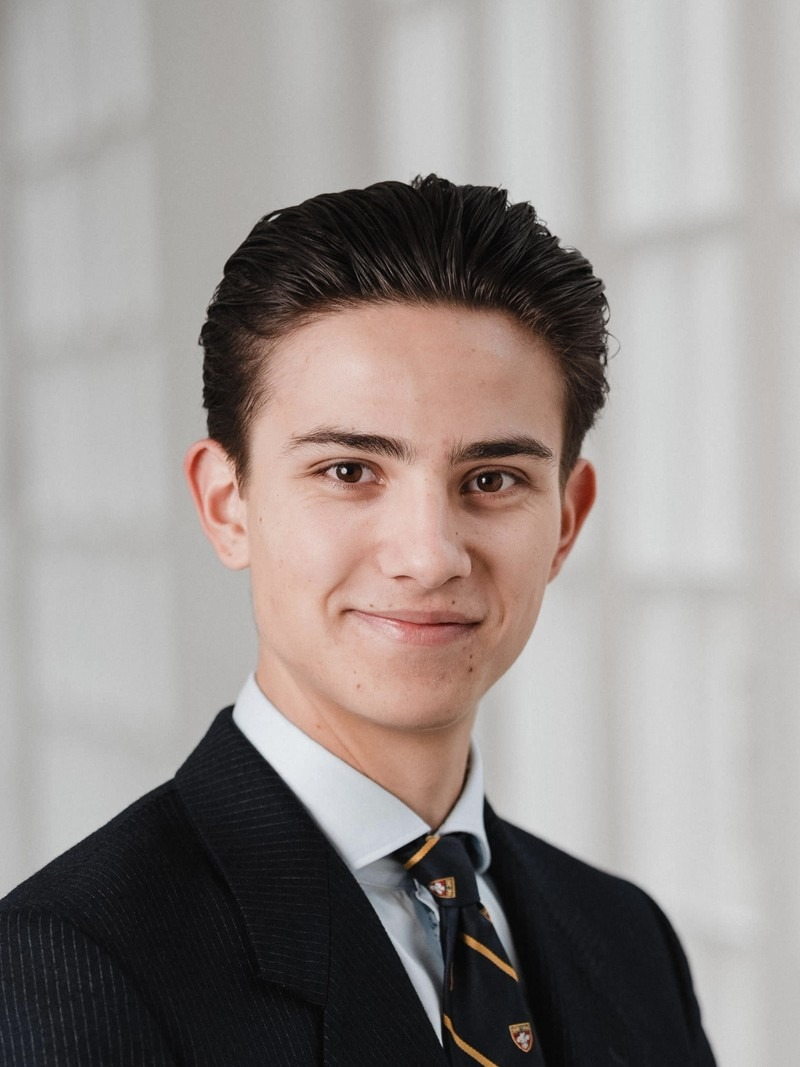
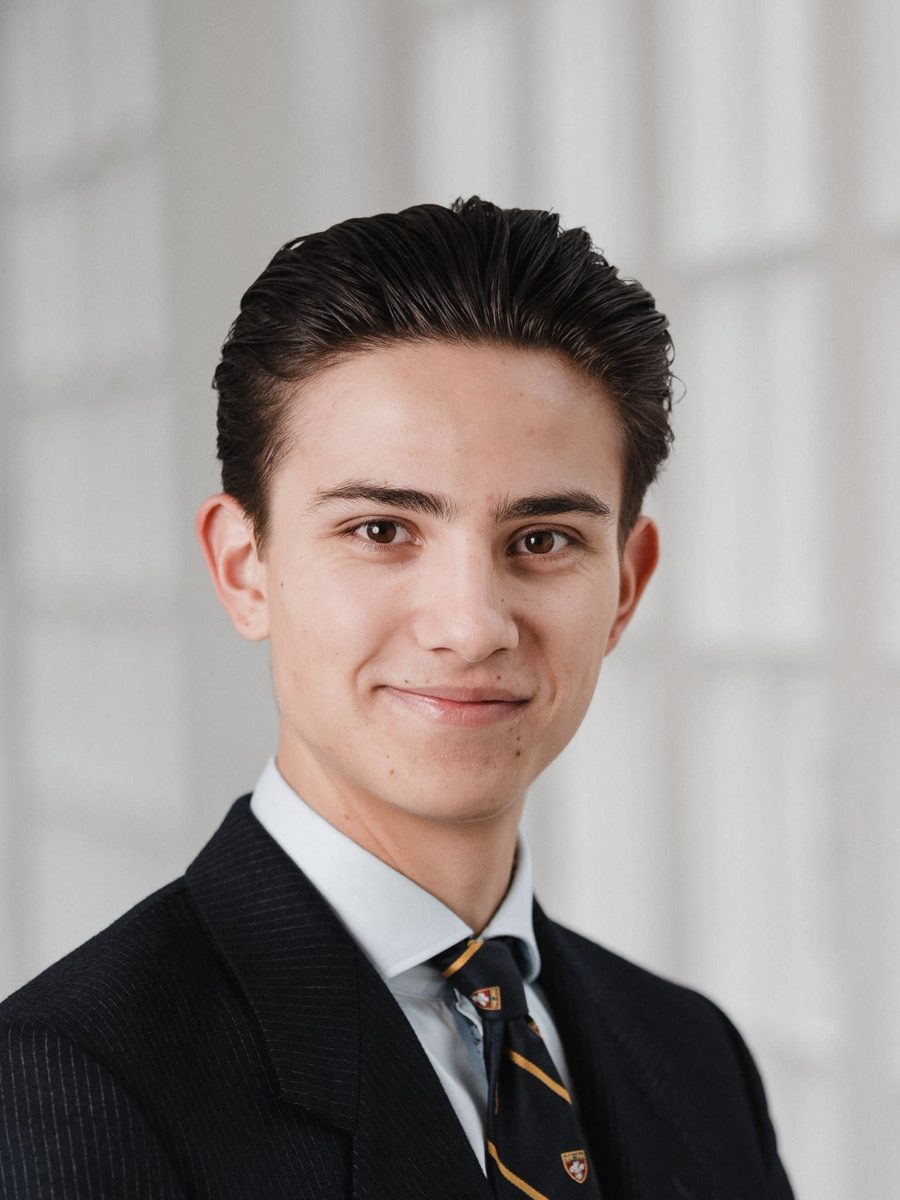
Add 2026-27 headshots and remove photos of former members
29 member uploads from the profile form, cropped to the 3:4 card format around
the detected face (900x1200 JPEG). process-headshots.py gains an optional face
share column for tighter crops and documents that face detection needs
opencv-python 4.x.

Claude-Session: https://claude.ai/code/session_016rtwW6F4ZxnBTU6Y9U1igo

diff --git a/scripts/process-headshots.py b/scripts/process-headshots.py
@@ -8,8 +8,9 @@ and saved as a progressive JPEG in public/team/<slug>.jpg.
 Usage:
   python3 scripts/process-headshots.py <mapping.csv>
 
-mapping.csv has two columns without a header: <path to raw image>,<slug>
-Requires Pillow and opencv-python (face detection falls back to a centred crop).
+mapping.csv has no header: <path to raw image>,<slug>[,<face share of crop height, default 0.38>]
+Raise the face share (e.g. 0.5) to crop tighter, for example for small faces or round profile screenshots.
+Requires Pillow and opencv-python 4.x (without it, or on OpenCV 5, crops fall back to the top centre).
 """
 import csv
 import sys
@@ -35,7 +36,7 @@ RATIO = WIDTH / HEIGHT
 
 
 def largest_face(image):
-    if cv2 is None:
+    if cv2 is None or not hasattr(cv2, "CascadeClassifier"):  # OpenCV 5 dropped Haar cascades; use opencv-python 4.x.
         return None
     gray = cv2.cvtColor(np.array(image.convert("RGB")), cv2.COLOR_RGB2GRAY)
     cascade = cv2.CascadeClassifier(cv2.data.haarcascades + "haarcascade_frontalface_default.xml")
@@ -45,7 +46,7 @@ def largest_face(image):
     return max(faces, key=lambda f: f[2] * f[3])
 
 
-def crop_box(image, face):
+def crop_box(image, face, face_share=0.38):
     w, h = image.size
     if face is None:
         # No face found: keep the top of the photo, where heads usually are.
@@ -56,7 +57,7 @@ def crop_box(image, face):
         return (left, top, left + crop_w, top + crop_h)
     fx, fy, fw, fh = face
     # The face should take roughly 38% of the crop height, centred, with its middle at 38% from the top.
-    crop_h = min(h, max(fh / 0.38, fh * 1.8))
+    crop_h = min(h, max(fh / face_share, fh * 1.6))
     crop_w = crop_h * RATIO
     if crop_w > w:
         crop_w = w
@@ -68,10 +69,10 @@ def crop_box(image, face):
     return (left, top, left + crop_w, top + crop_h)
 
 
-def process(src, slug):
+def process(src, slug, face_share=0.38):
     image = ImageOps.exif_transpose(Image.open(src)).convert("RGB")
     face = largest_face(image)
-    box = crop_box(image, face)
+    box = crop_box(image, face, face_share)
     out = image.crop(tuple(round(v) for v in box)).resize((WIDTH, HEIGHT), Image.LANCZOS)
     target = OUT_DIR / f"{slug}.jpg"
     out.save(target, "JPEG", quality=82, optimize=True, progressive=True)
@@ -82,8 +83,10 @@ def main():
     if len(sys.argv) != 2:
         sys.exit(__doc__)
     with open(sys.argv[1], newline="", encoding="utf-8") as handle:
-        for src, slug in csv.reader(handle):
-            target, found = process(src, slug)
+        for row in csv.reader(handle):
+            src, slug = row[0], row[1]
+            share = float(row[2]) if len(row) > 2 and row[2] else 0.38
+            target, found = process(src, slug, share)
             print(f"{slug}: {target.stat().st_size // 1024} KB, face {'found' if found else 'NOT found, check crop'}")
 
 
